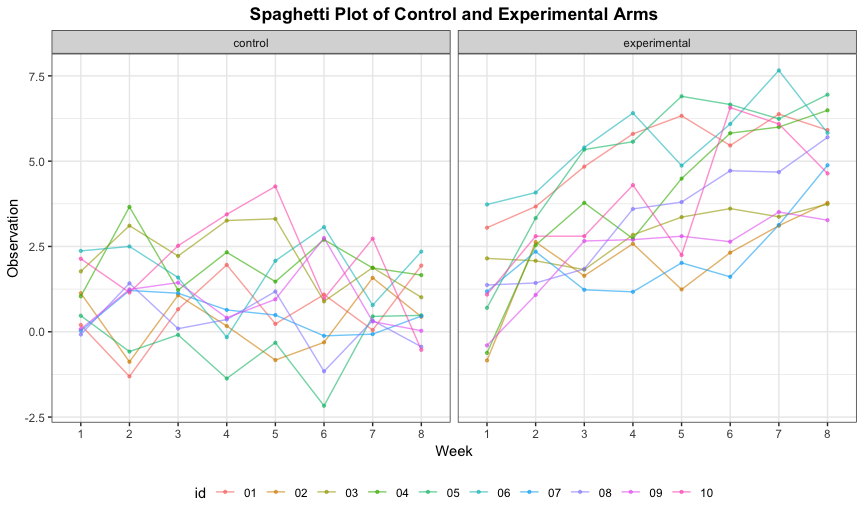
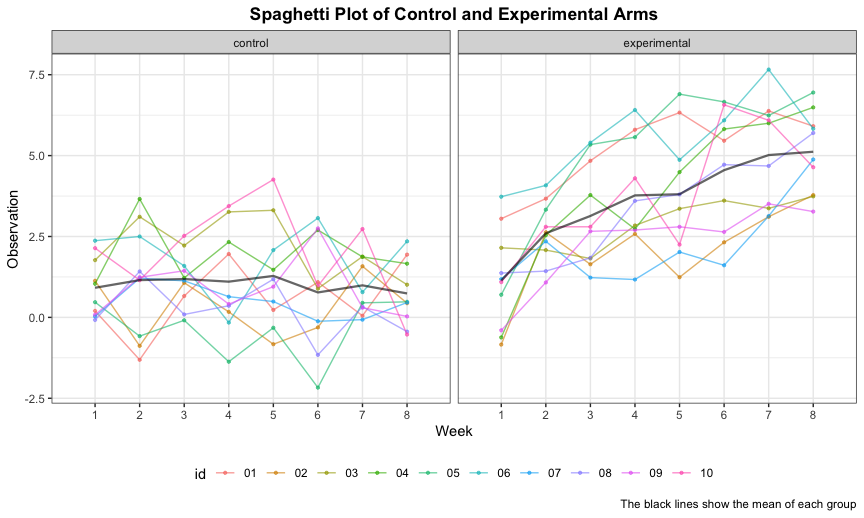
edit the spaghetti plot

diff --git a/p8105_hw5_zf2212.md b/p8105_hw5_zf2212.md
@@ -50,11 +50,17 @@ data_plot %>%
   ggplot(aes(x = week, y = observation, color = id)) +
   geom_point(alpha = .6, size = .8) +
   geom_line(alpha = .6) +
+  stat_summary(fun.y = mean, color = "black", 
+               position = position_dodge(0.75),
+               geom = "line",
+               size = .8,
+               alpha = .6) +
   facet_grid(~arm) + 
   scale_x_discrete(limits = c(1:8)) + # break in 8 weeks
   labs(title = "Spaghetti Plot of Control and Experimental Arms",
        x = "Week",
-       y = "Observation") +
+       y = "Observation",
+       caption = "The black lines show the mean of each group") +
   theme_bw() + # set names and themes
   theme(legend.position = "bottom", plot.title = element_text(hjust = 0.5, face = 'bold')) +
   guides(col = guide_legend(nrow = 1))
